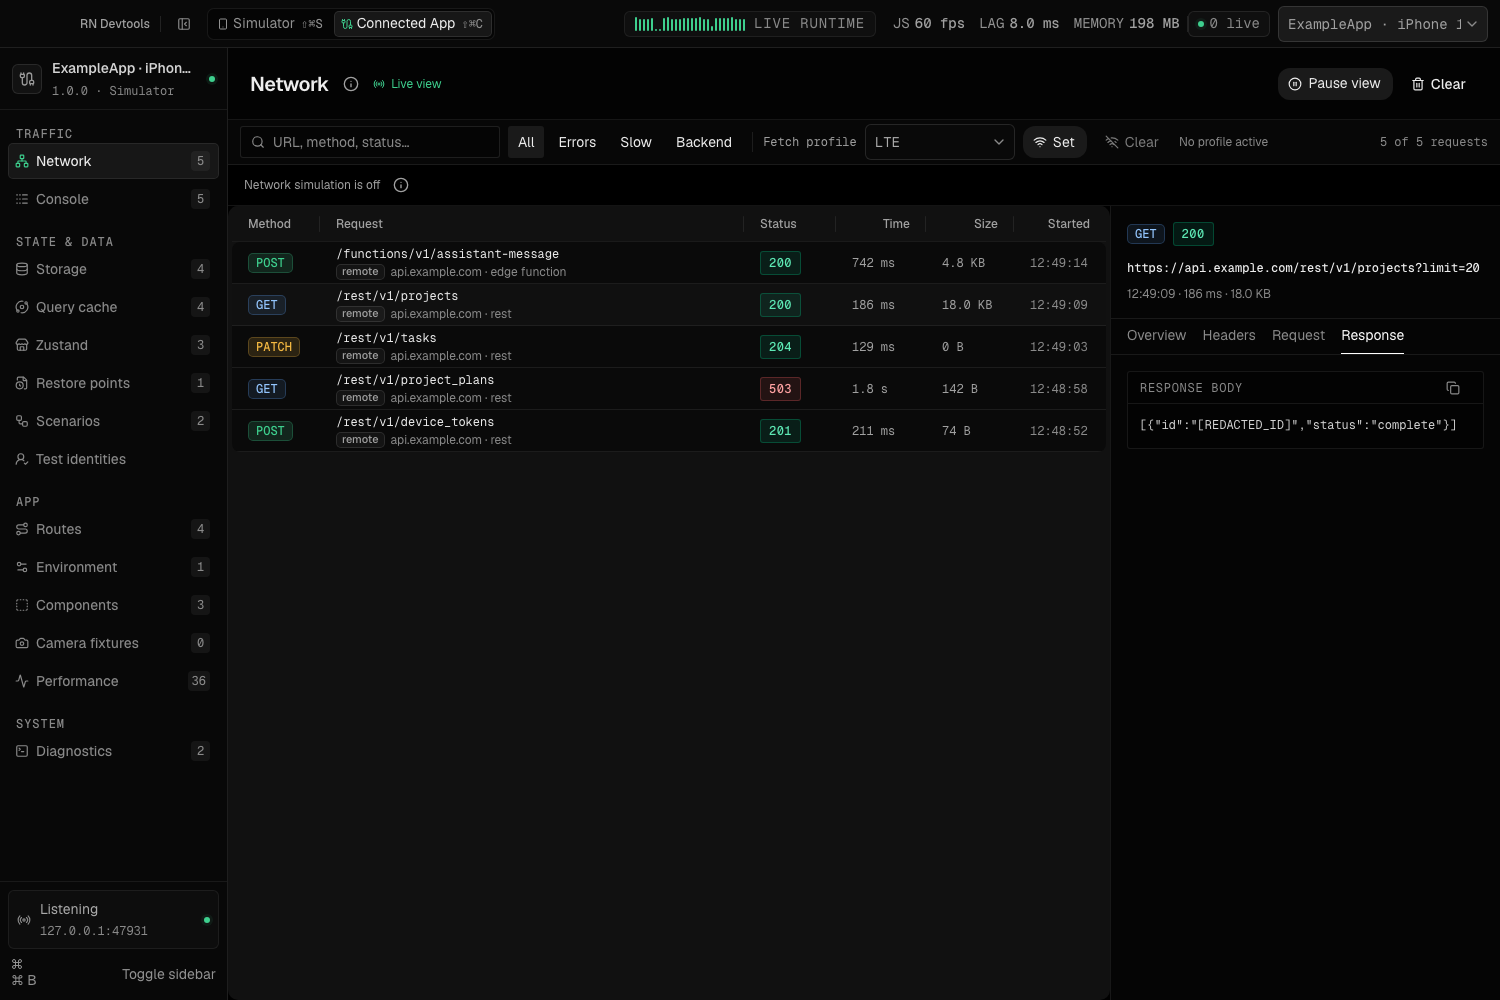
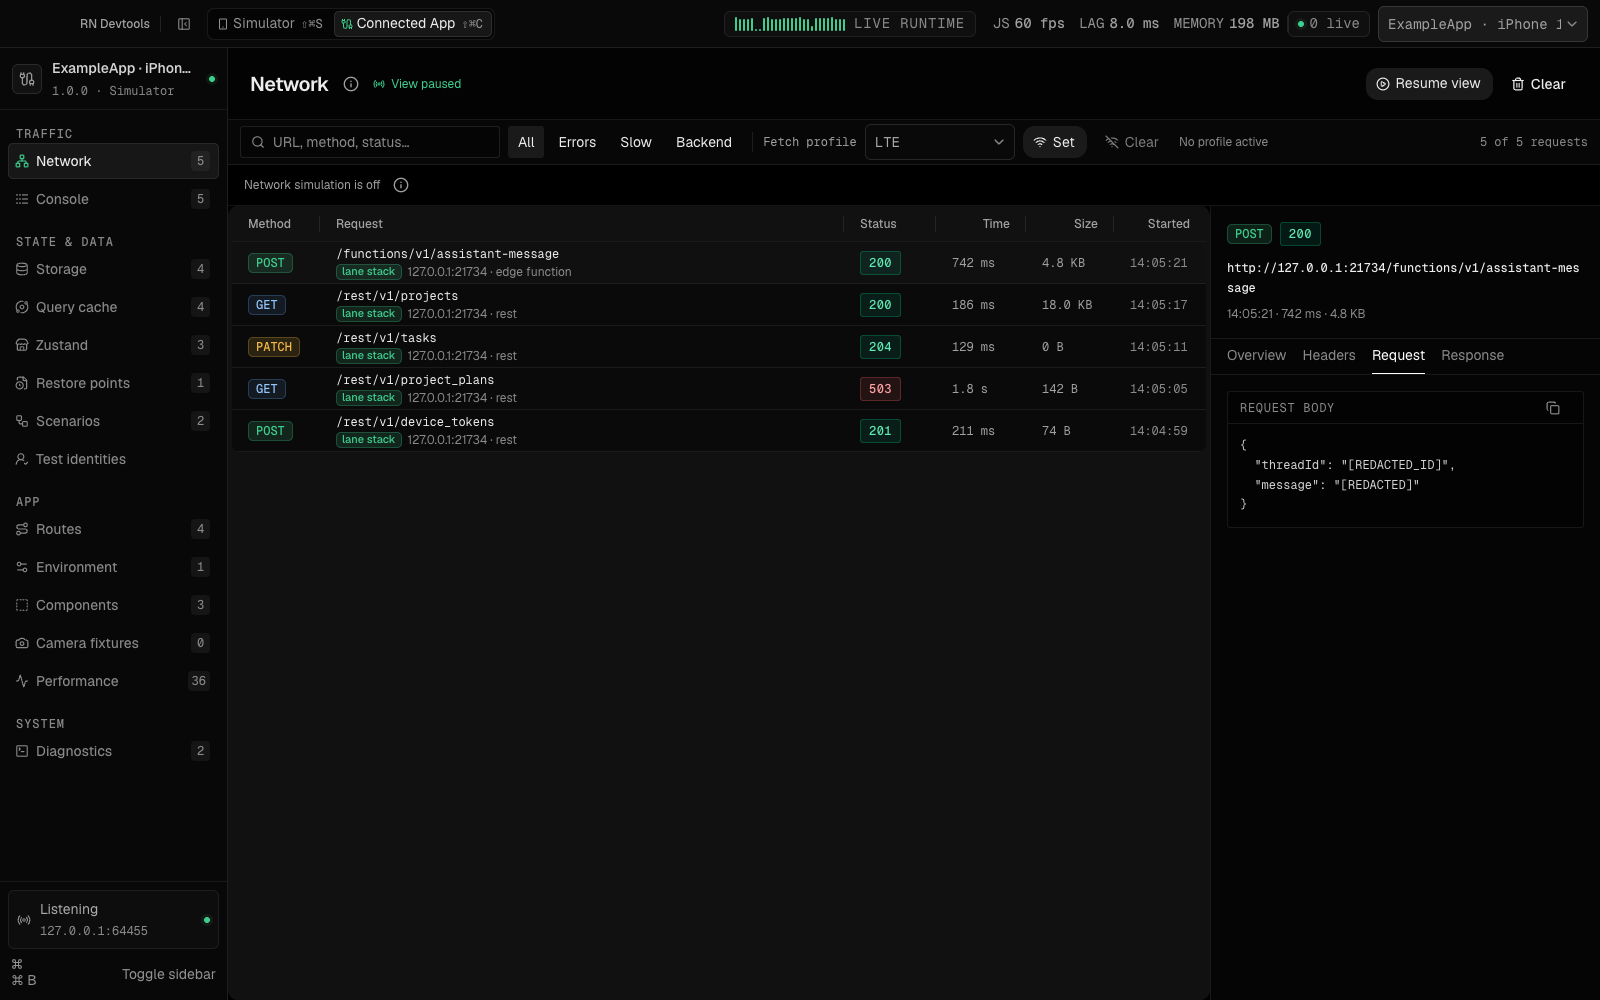
docs: refresh README and app screenshots

diff --git a/README.md b/README.md
@@ -1,48 +1,51 @@
 # RN Devtools
 
-A desktop workspace for React Native diagnostics, iOS Simulator fleets, and parallel development with isolated local backends.
+A desktop workspace for React Native diagnostics, iOS Simulators, and parallel development across git worktrees.
 
-[Features](#features) · [Install](#install) · [Try the demo](#try-the-demo) · [Development](#development)
+**[Download the macOS preview](https://github.com/adalloul0928/rndevtools/releases/download/desktop-v0.2.0/RN-Devtools-0.2.0-arm64.dmg)** · Apple silicon · Version 0.2.0
 
-![RN Devtools managing three Simulator lanes](docs/images/simulator-fleet.png)
+The app is signed and notarized. **No HeroUI account or license is needed to download or run the packaged app.** [Release notes and checksums](https://github.com/adalloul0928/rndevtools/releases/tag/desktop-v0.2.0).
+
+![RN Devtools Simulator fleet and worktree lanes](docs/images/simulator-fleet.png)
 
 ## Features
 
-- **Parallel Simulator lanes.** Run each git worktree on its own Simulator and Metro port. Reuse native builds when fingerprints match, and keep branch ownership visible.
-- **Local Supabase per worktree.** Manage native Postgres, REST, Auth, Storage, Realtime, and Functions on loopback. Inspect services and logs, apply migrations, and connect each lane to its own backend. This integration is alpha; per-stack signing keys are opt-in.
-- **Connected app diagnostics.** Inspect network requests, console output, storage, React Query, Zustand, navigation, performance, environment, and components. Add host adapters and plugins for your app.
-- **Simulator controls and automation.** Launch apps, open deep links, manage permissions, capture screenshots and recordings, run recipes, and expose the same workflows to coding agents through the CLI and MCP.
+- **Parallel Simulator lanes.** Give each worktree its own Simulator and Metro port. Reuse native builds when fingerprints match.
+- **Local Supabase per worktree.** Manage native Postgres, REST, Auth, Storage, Realtime, and Functions. Inspect services, logs, and migrations. This integration is alpha.
+- **Connected app diagnostics.** Inspect network requests, console output, storage, React Query, Zustand, navigation, performance, environment, and components.
+- **Simulator automation.** Control apps, deep links, and permissions; capture screenshots and recordings; run recipes through the desktop app, bundled CLI, or MCP.
 - **Experimental SimSlim profiles.** Reduce background Simulator services with compatibility checks, verification, checkpoints, and undo.
 
-![Local Supabase stacks with separate services and ports](docs/images/local-supabase.png)
+![Local Supabase stacks and their Simulator lanes](docs/images/local-supabase.png)
 
-![Connected app network requests and redacted payload details](docs/images/network-inspector.png)
+*Per-worktree backends with their Simulator, Metro port, and lifecycle controls.*
 
-*Screenshots show the application with synthetic demo data.*
+![Connected app network inspector](docs/images/network-inspector.png)
+
+*Network requests and redacted payload details. All screenshots show the running desktop app with synthetic demo data.*
 
 ## Install
 
-Download the signed and notarized [RN Devtools 0.2.0 preview for Apple silicon](https://github.com/adalloul0928/rndevtools/releases/download/desktop-v0.2.0/RN-Devtools-0.2.0-arm64.dmg). Open the DMG, drag **RN Devtools** into **Applications**, and launch it. The [release page](https://github.com/adalloul0928/rndevtools/releases/tag/desktop-v0.2.0) includes checksums and preview notes.
-
-The declared minimum is macOS 14. This preview has been tested on one Apple silicon Mac with macOS 27 and Xcode 27; a separate clean-Mac installation and broader version coverage are still pending.
-
-React Native npm packages remain unpublished. Homebrew installation is not available yet. Use the repository's Expo example below to try connected-app diagnostics.
-
-### Requirements
+Open the DMG, drag **RN Devtools** into **Applications**, and launch it. The download includes the native helpers; installing it does not require Node.js, pnpm, or Go.
 
 | Feature | Requires |
 | --- | --- |
-| Desktop app | Apple silicon Mac, macOS 14 or later |
-| Simulator management | Xcode with an installed iOS Simulator runtime |
+| Desktop app | Apple silicon Mac; declared minimum macOS 14 |
+| Simulator management | Xcode and an installed iOS Simulator runtime |
 | Worktree lanes | Git, Node.js, project dependencies, and a compatible Expo development build installed on each Simulator |
-| Local Supabase | The project's own Supabase CLI; the verified example pins 2.121.0 and uses the native runtime |
-| On-device panels | Compatible React Native/Expo dependencies; see the [core package](packages/core/README.md) |
+| Local Supabase | The project's pinned Supabase CLI; the example verifies 2.121.0 with the native runtime |
+| Connected diagnostics | An app using the [React Native host integration](packages/react-native/README.md) |
 
-The prebuilt app includes its native helpers. Node.js, pnpm, Go, and a HeroUI Pro license are not needed merely to install the desktop app; source builds and your app's development workflow have their own requirements.
+### Preview limits
+
+- Tested on one Apple silicon Mac with macOS 27 and Xcode 27. Clean-Mac installation and broader version coverage are still pending.
+- Supabase databases and ports are separate, but default local signing keys are public and shared. Enable **per-stack keys** for JWT signing isolation. These are single-user development stacks.
+- SimSlim is off by default. Unverified platform combinations require experimental acknowledgement.
+- React Native npm packages remain unpublished. Homebrew, Intel Mac, Windows, and Linux downloads are unavailable.
 
 ## Try the demo
 
-The [Expo example](examples/expo-demo/README.md) includes the development client, diagnostic plugins, desktop connection, native build cache, and a local Supabase project.
+The [Expo example](examples/expo-demo/README.md) includes diagnostic plugins, the desktop connection, native build caching, and a local Supabase project. Use Node.js 24, pnpm 12.4.1, and Xcode:
 
 ```sh
 git clone https://github.com/adalloul0928/rndevtools.git
@@ -51,13 +54,11 @@ pnpm install
 pnpm --dir examples/expo-demo exec expo run:ios
 ```
 
-Open RN Devtools alongside the demo to inspect its connection. Building the desktop app from source is described below.
+Open RN Devtools alongside the demo. For your own app, follow the [host integration and production pruning guide](packages/react-native/README.md); keep diagnostics behind a development-only import seam and verify the production bundle.
 
-For your own app, start with the example's host adapter and [production pruning setup](packages/react-native/README.md). Keep diagnostics behind a development-only import seam, use `withDevtoolsPruning`, and verify a production export with `rndevtools-verify-bundle`.
+## Build the desktop app from source
 
-## Development
-
-Use Node.js 24, pnpm 12.4.1, Go 1.27, and Xcode's Swift toolchain. The desktop UI requires a [HeroUI Pro](https://www.heroui.pro/) license and `HEROUI_AUTH_TOKEN`; the React Native packages do not.
+Source builds use Node.js 24, pnpm 12.4.1, Go 1.27, and Xcode's Swift toolchain. **Desktop source builders need a [HeroUI Pro](https://heroui.pro/) license and `HEROUI_AUTH_TOKEN`.** The React Native packages and the demo do not.
 
 ```sh
 pnpm install
@@ -65,23 +66,9 @@ pnpm --filter @rndevtools/desktop native:build
 pnpm --filter @rndevtools/desktop dev
 ```
 
-Privileged native Simulator mutations require a signed packaged app. Set `APPLE_TEAM_ID` in the build environment and follow the [release guide](docs/RELEASING.md). Unsigned development builds can still inspect devices.
+Privileged Simulator mutations require a signed packaged app. Follow the [release guide](docs/RELEASING.md) for signing and packaging, and the [desktop guide](apps/desktop/README.md) for development checks.
 
-```sh
-pnpm check:public
-pnpm quality
-pnpm --filter @rndevtools/desktop quality
-pnpm --filter @rndevtools/desktop test:e2e
-pnpm --dir examples/expo-demo verify:bundle
-```
-
-| Workspace | Purpose |
-| --- | --- |
-| [`packages/core`](packages/core) | On-device panel runtime and diagnostic plugins |
-| [`packages/react-native`](packages/react-native) | Desktop client, authorization, adapters, build cache, and production pruning |
-| [`apps/desktop`](apps/desktop) | Electron inspector, Simulator management, CLI, and native helpers |
-
-Both React Native packages ship TypeScript source so the consuming app's Babel pipeline can compile Reanimated worklets.
+Package guides: [Core diagnostics](packages/core/README.md) · [React Native integration](packages/react-native/README.md).
 
 ## License and credits
 
